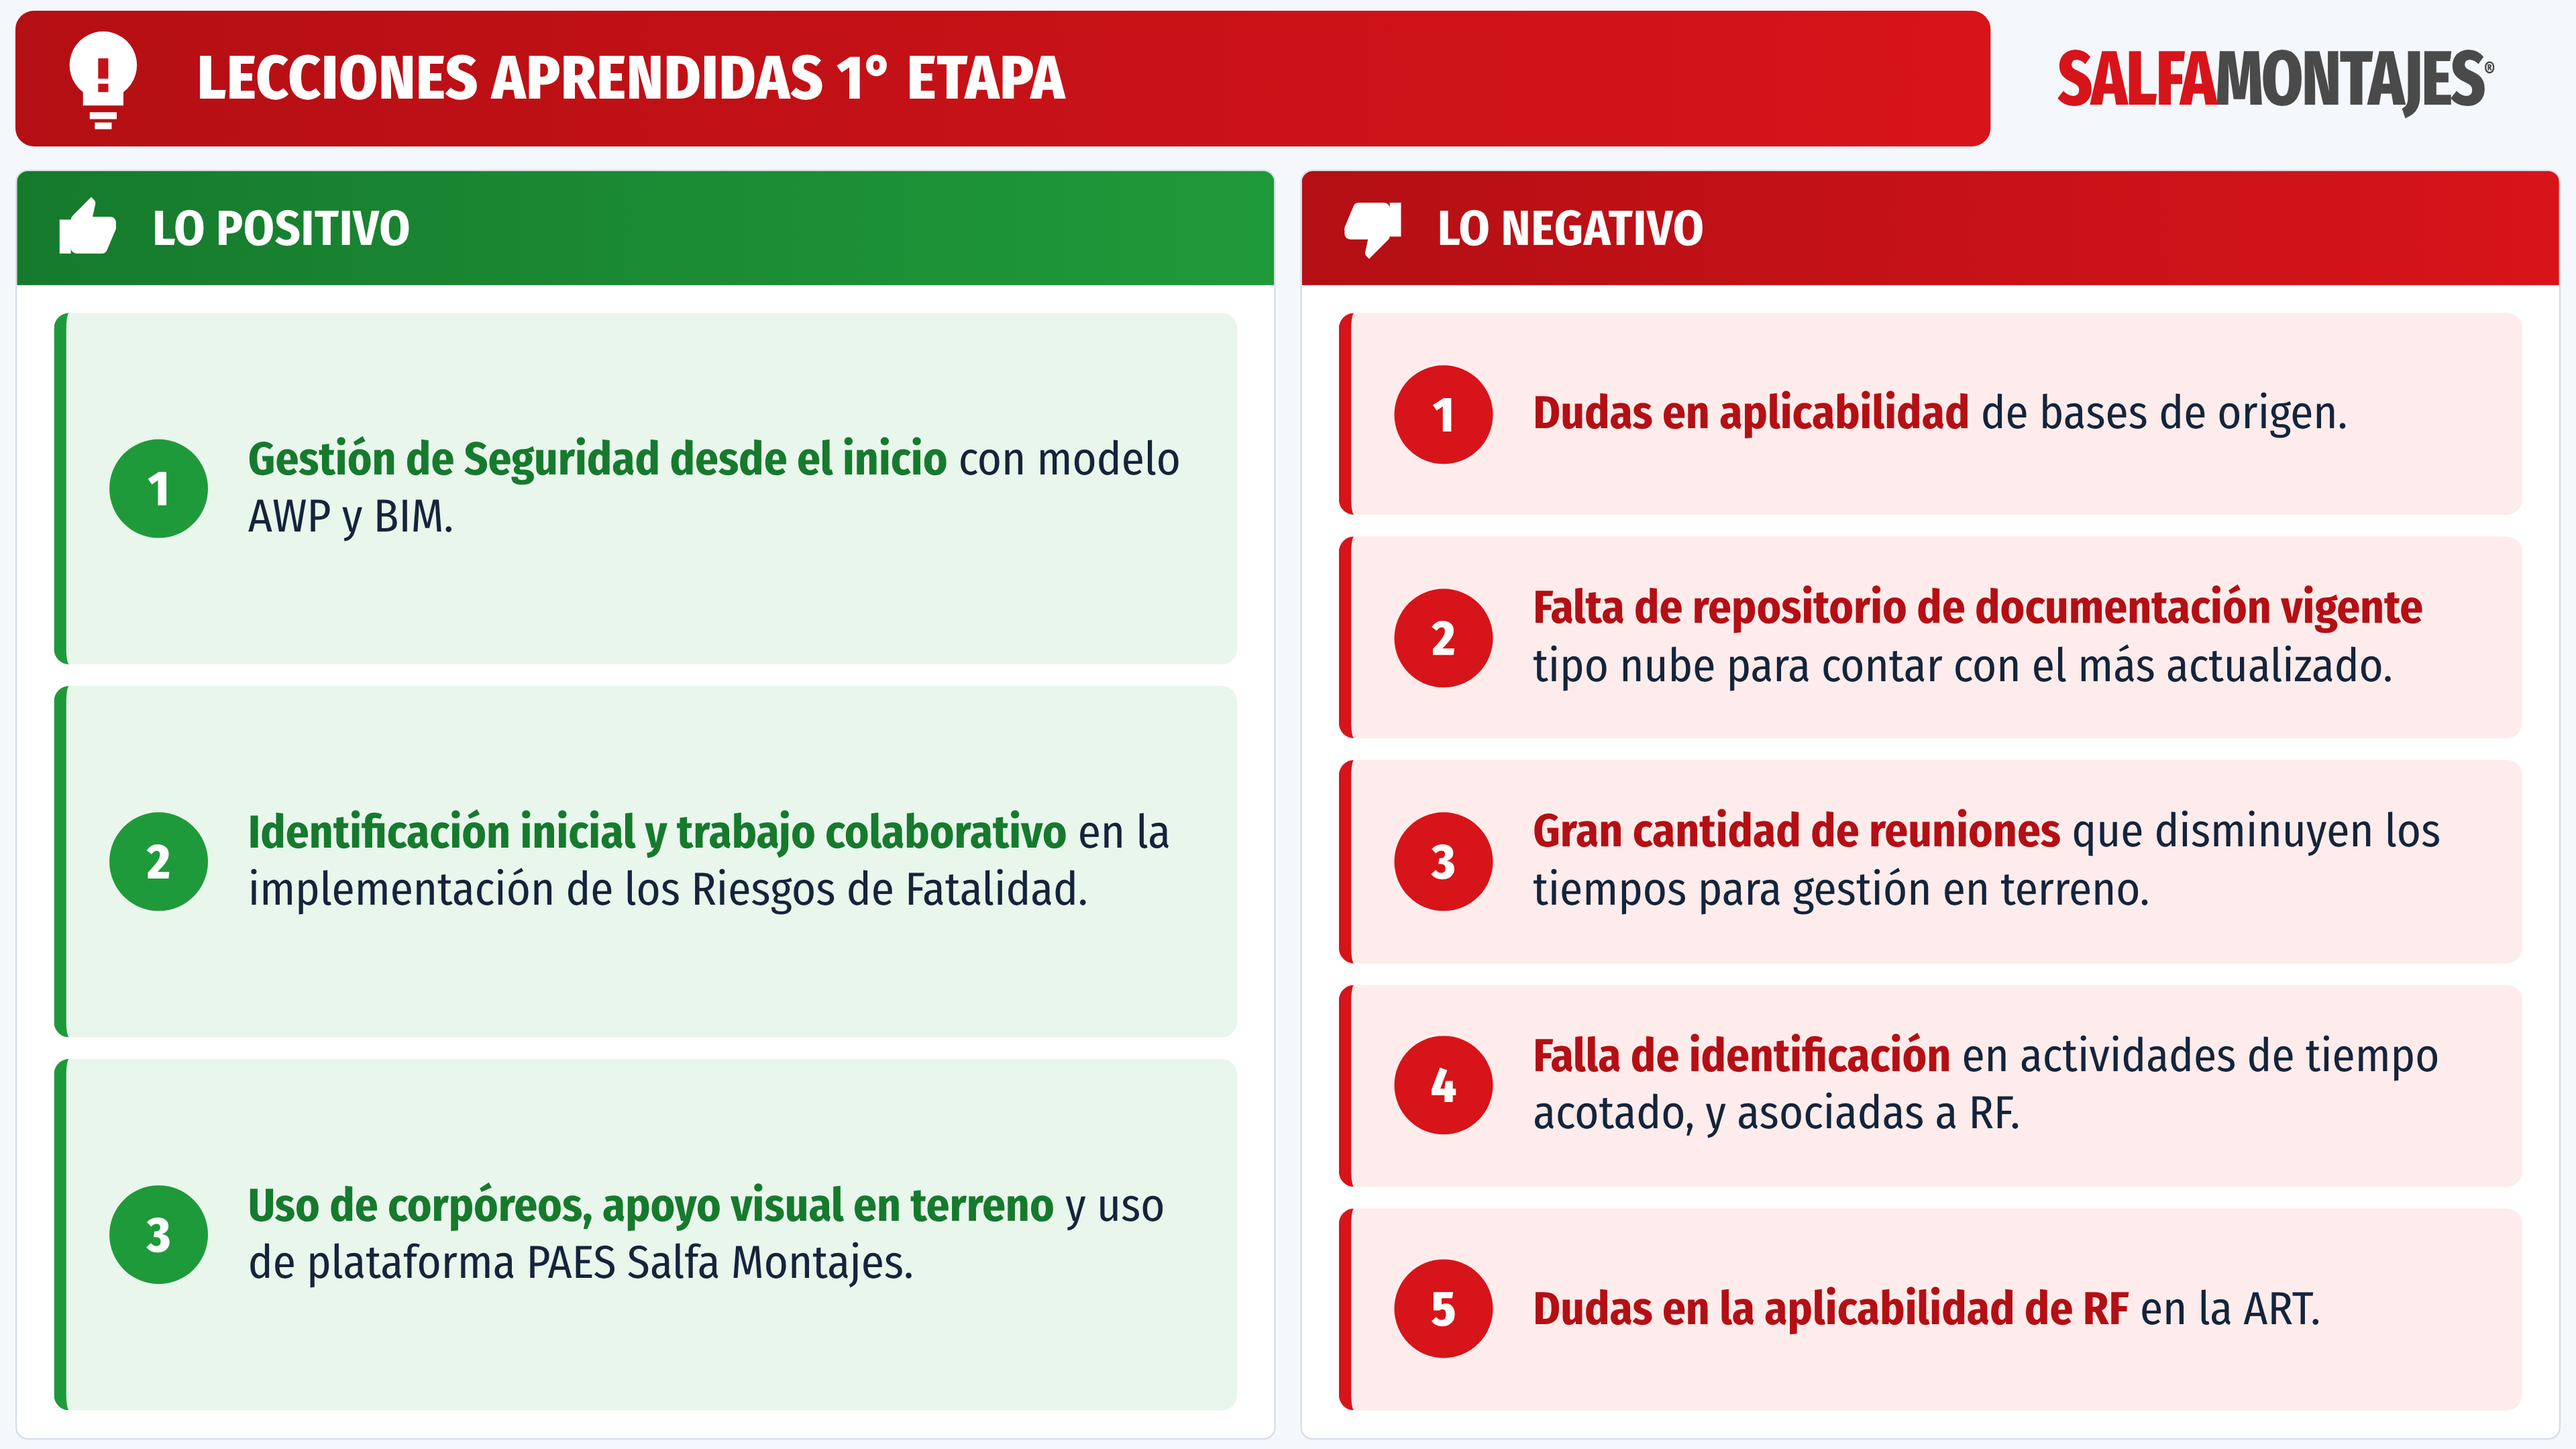
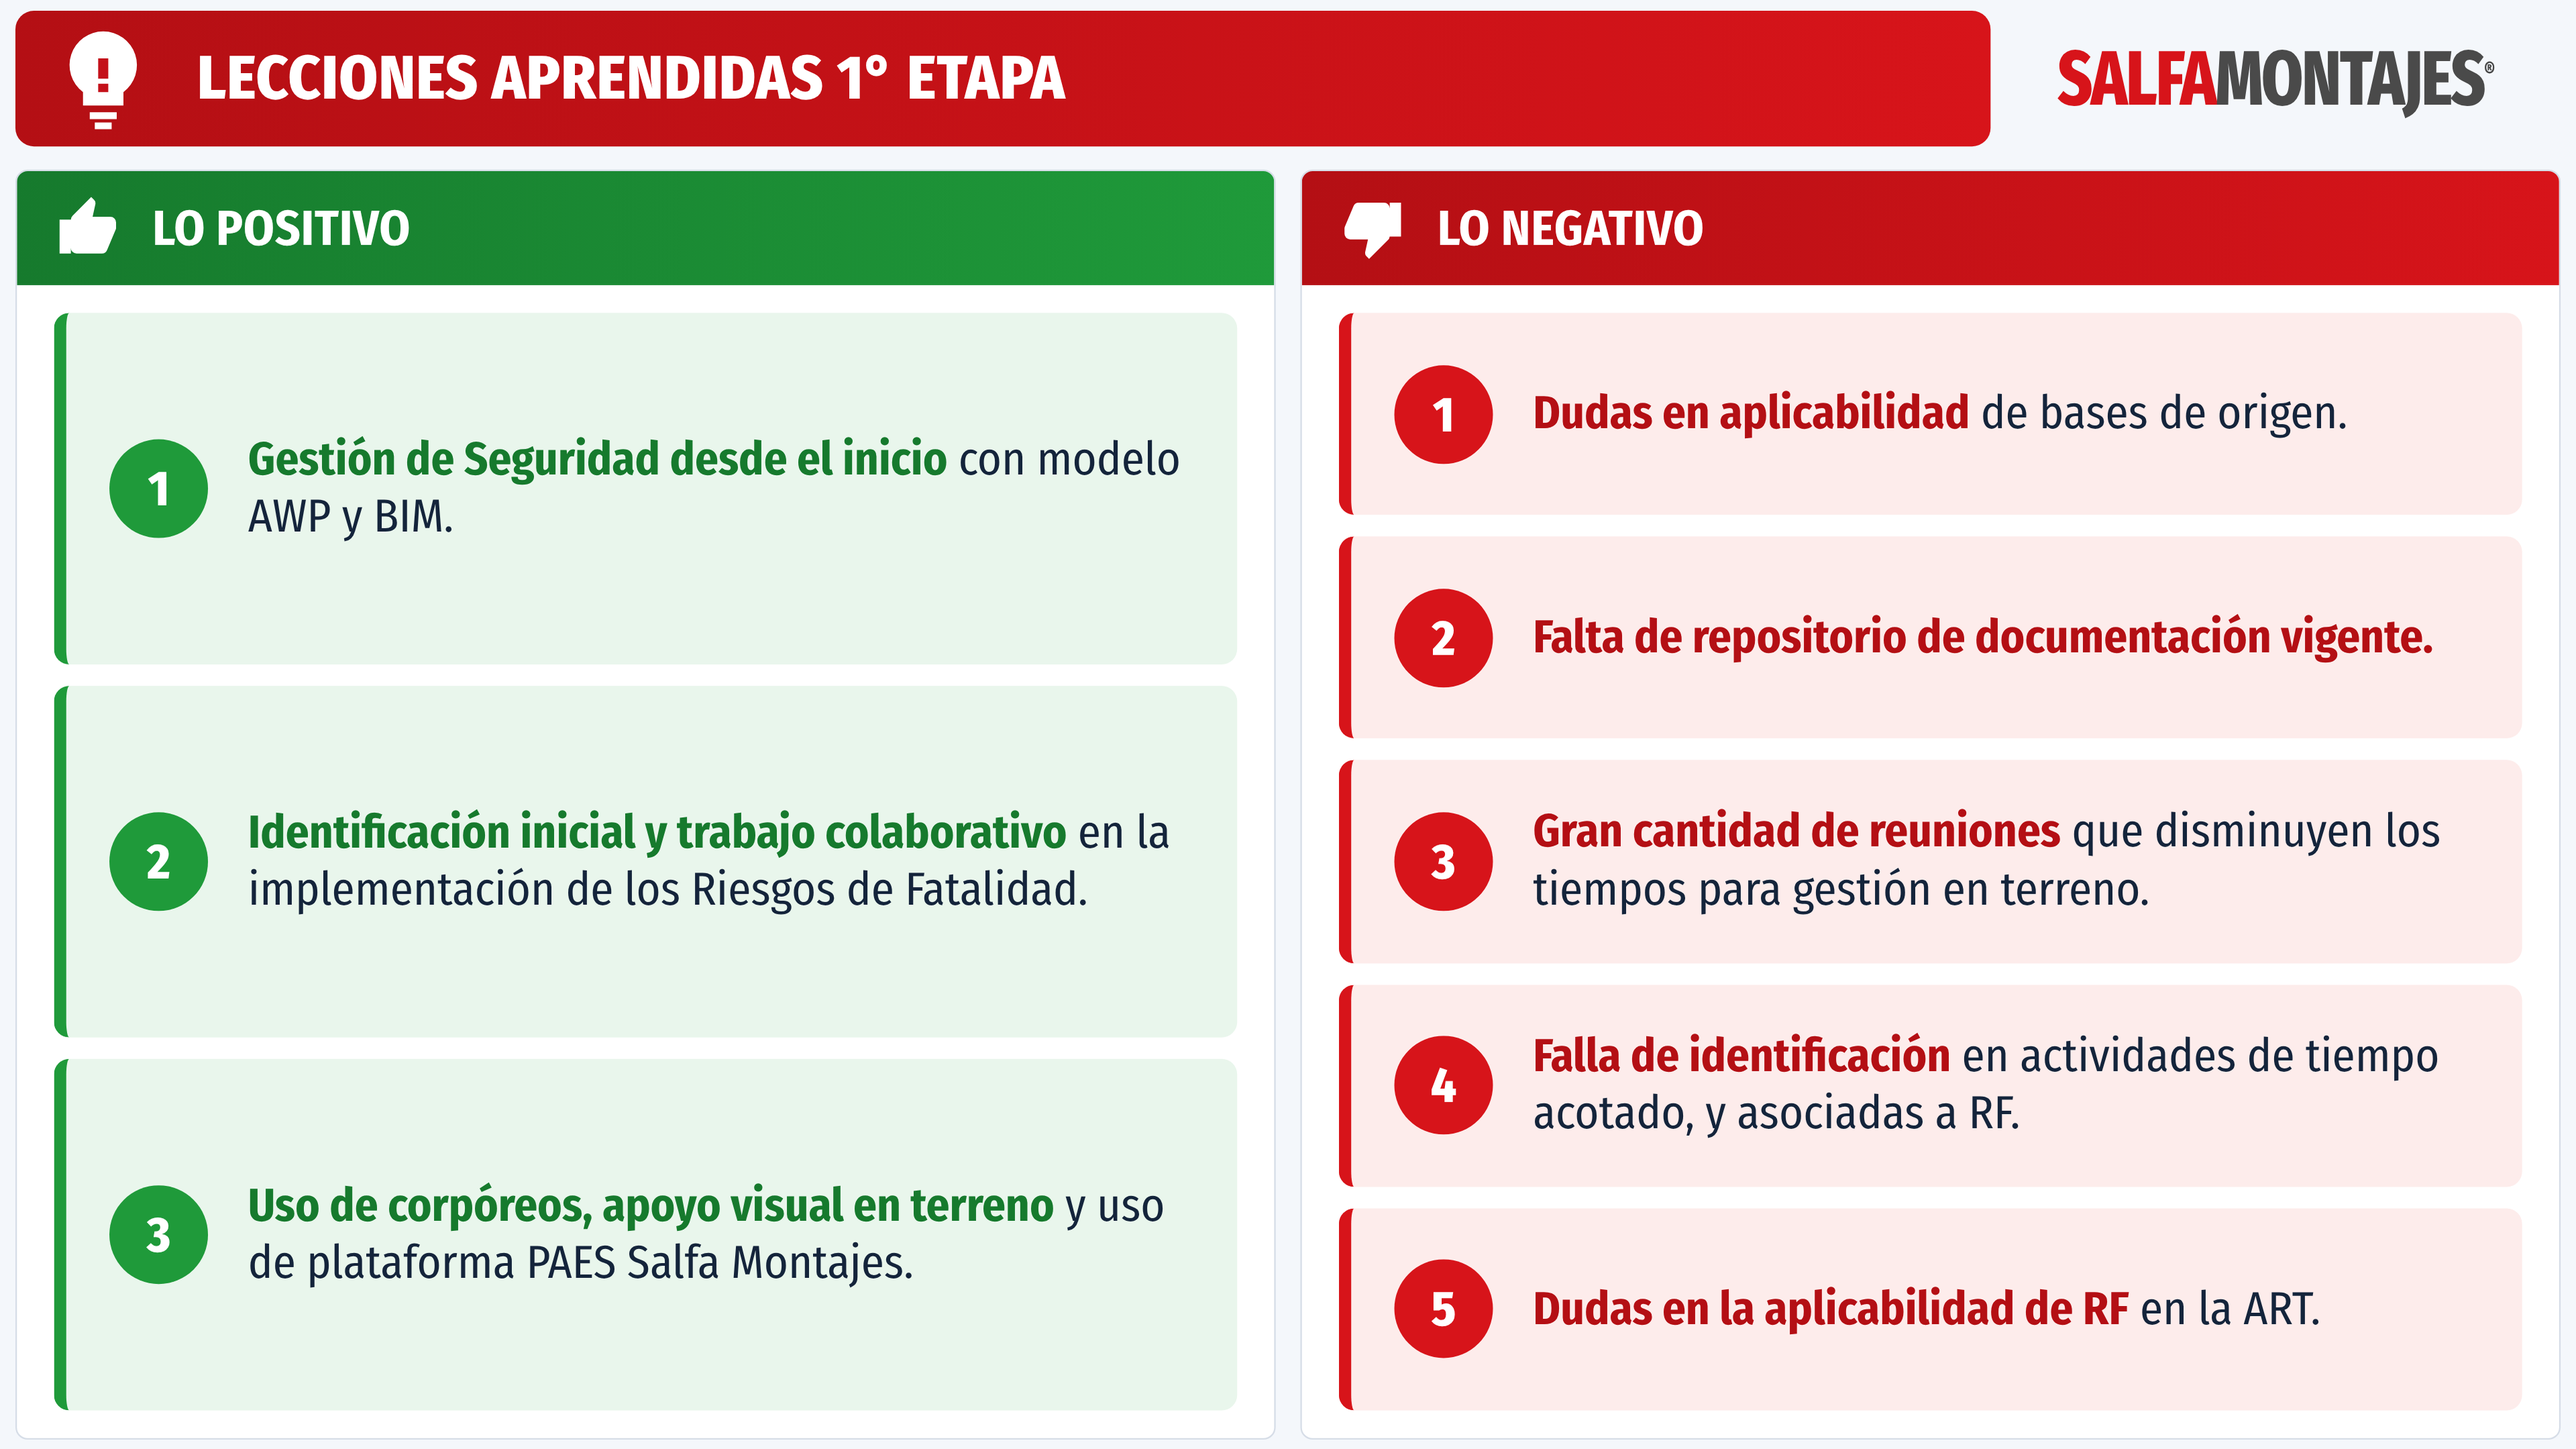
Ajustar punto negativo 2: falta de repositorio de documentación vigente
Claude-Session: https://claude.ai/code/session_01R7SUHWrVXsce4pGmmGYyHg

Changed region(s): [[0.5938, 0.4032, 0.9375, 0.4653]]

diff --git a/lecciones-aprendidas-etapa-1.html b/lecciones-aprendidas-etapa-1.html
@@ -53,7 +53,7 @@
     <div class="head"><svg viewBox="0 0 24 24"><path d="M22 3h-4v12h4zM2 14a2 2 0 0 0 2 2h6.3l-1 4.6v.3a1.5 1.5 0 0 0 .5 1.1l.9.9 6.6-6.6A2 2 0 0 0 18 15V5a2 2 0 0 0-2-2H7a2 2 0 0 0-1.8 1.2l-3 7.1a2 2 0 0 0-.2.7z"/></svg>LO NEGATIVO</div>
     <ul>
       <li><span class="num">1</span><span><b>Dudas en aplicabilidad</b> de bases de origen.</span></li>
-      <li><span class="num">2</span><span><b>Falta de repositorio de documentación vigente</b> tipo nube para contar con el más actualizado.</span></li>
+      <li><span class="num">2</span><span><b>Falta de repositorio de documentación vigente.</b></span></li>
       <li><span class="num">3</span><span><b>Gran cantidad de reuniones</b> que disminuyen los tiempos para gestión en terreno.</span></li>
       <li><span class="num">4</span><span><b>Falla de identificación</b> en actividades de tiempo acotado, y asociadas a RF.</span></li>
       <li><span class="num">5</span><span><b>Dudas en la aplicabilidad de RF</b> en la ART.</span></li>
